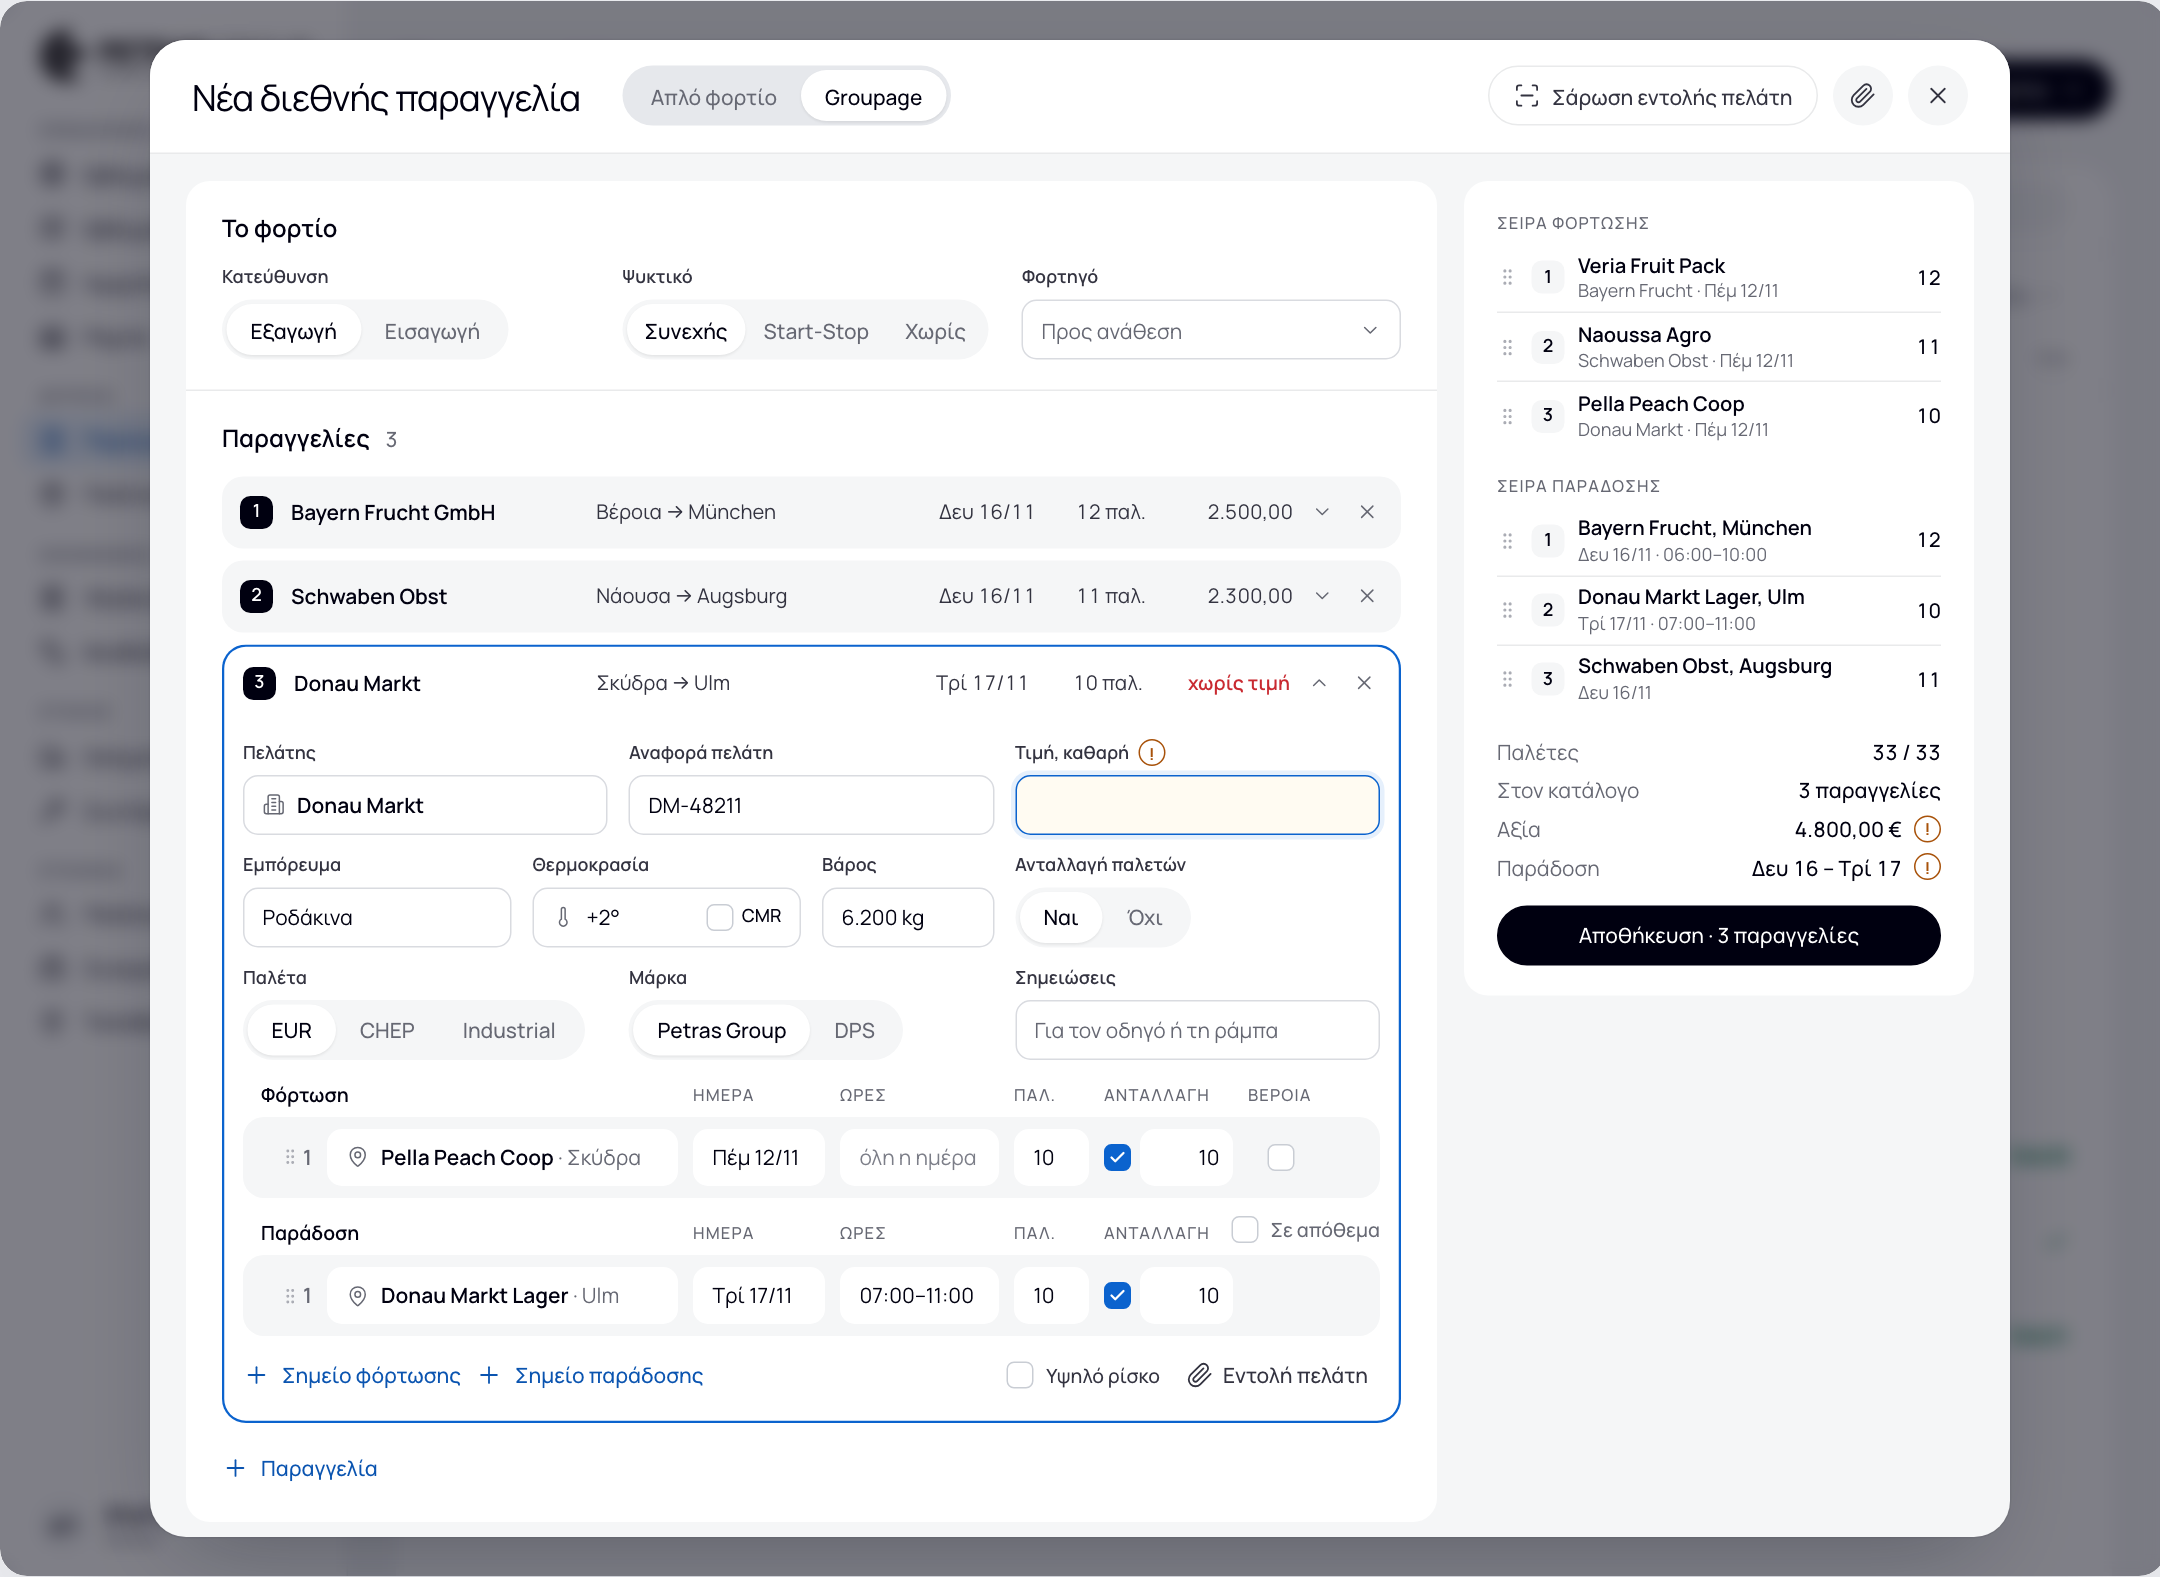
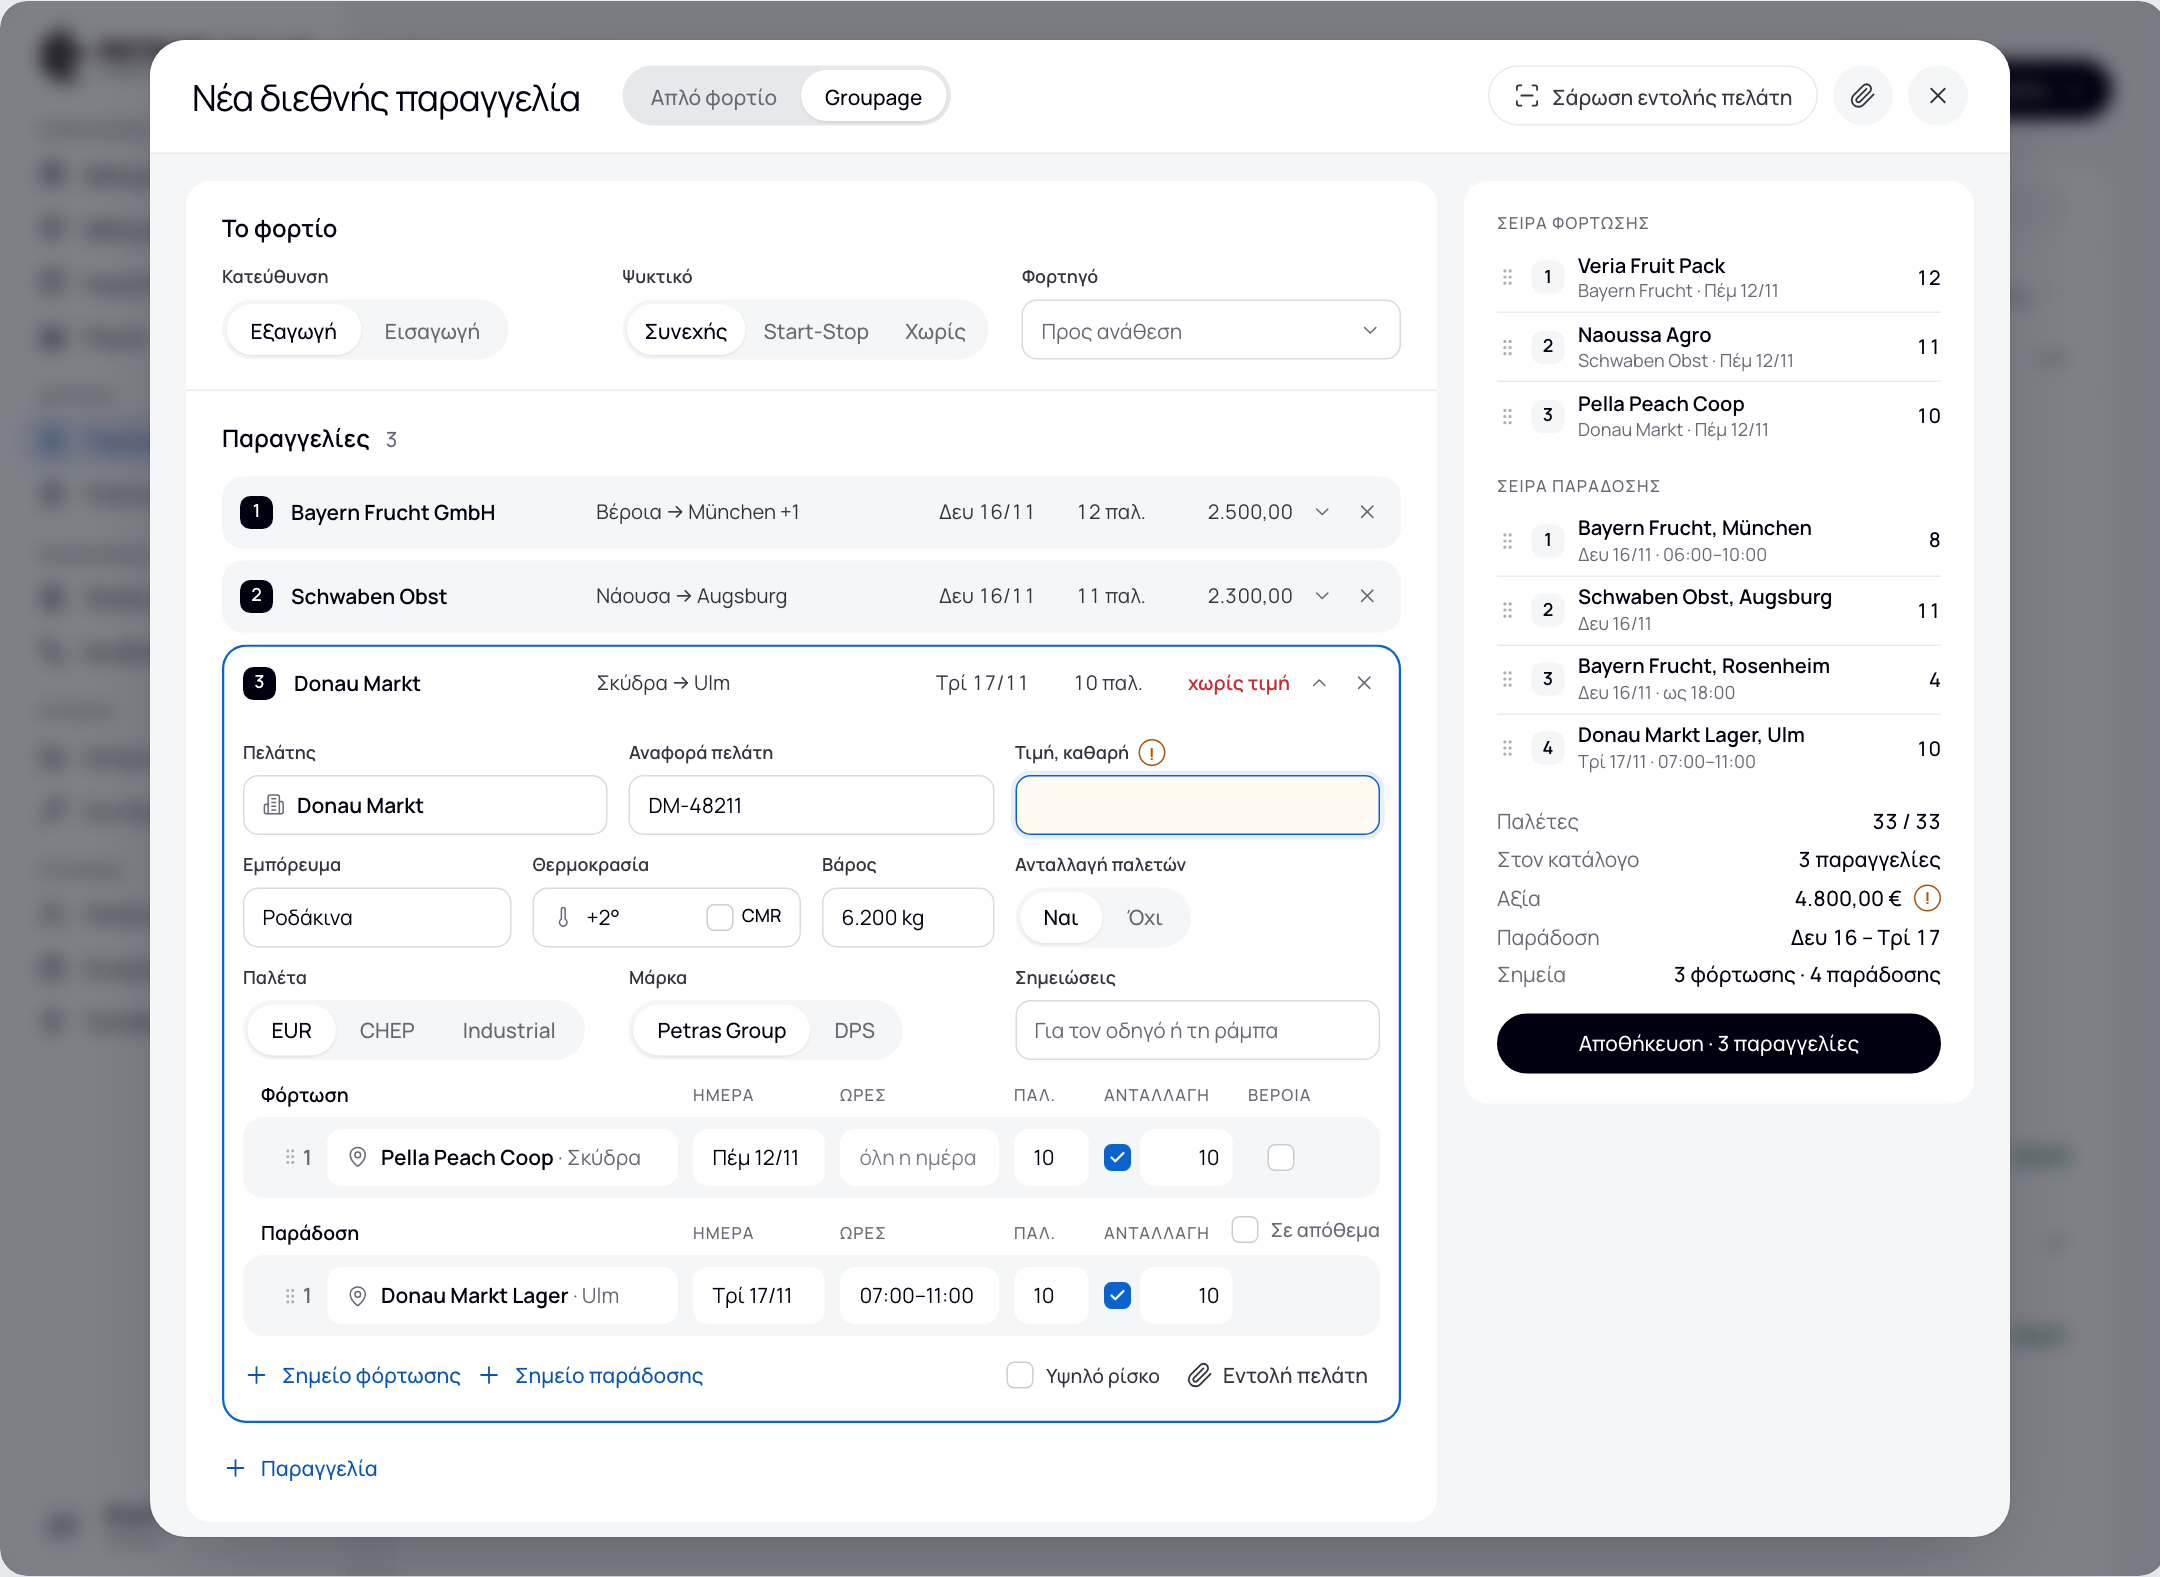
docs(redesign): groupage order is per point (owner 15/11) — an order with two deliveries gives two lines in the delivery order

Changed region(s): [[0.6824, 0.3729, 0.8995, 0.6836]]

diff --git a/docs/design/redesign-2026-11/index.html b/docs/design/redesign-2026-11/index.html
@@ -985,7 +985,7 @@ $('f6').innerHTML=ordersHTML(0)+`<div class="veil"></div><div class="sheet">
   <div class="fsec"><h3>Το φορτίο</h3>
    <div class="row g12"><div style="grid-column:span 4"><label class="fld"><span>Κατεύθυνση</span><div class="seg"><b class="on">Εξαγωγή</b><b>Εισαγωγή</b></div></label></div><label class="fld" style="grid-column:span 4"><span>Ψυκτικό</span><div class="seg tight"><b class="on">Συνεχής</b><b>Start-Stop</b><b>Χωρίς</b></div></label><div style="grid-column:span 4">${fld('Φορτηγό',`<span style="color:var(--help)">Προς ανάθεση</span><span class="sp"></span>${ic('chevron-down')}`)}</div></div></div>
   <div class="fsec"><h3>Παραγγελίες <span class="num" style="font-weight:500;color:var(--help);font-size:14px">3</span></h3>
-   ${ol(1,'Bayern Frucht GmbH','Βέροια → München','Δευ 16/11',12,'2.500,00')}
+   ${ol(1,'Bayern Frucht GmbH','Βέροια → München +1','Δευ 16/11',12,'2.500,00')}
    ${ol(2,'Schwaben Obst','Νάουσα → Augsburg','Δευ 16/11',11,'2.300,00')}
    <div class="oe">${ol(3,'Donau Markt','Σκύδρα → Ulm','Τρί 17/11',10,'<span class="np">χωρίς τιμή</span>',1)}
     <div class="row g12"><div style="grid-column:span 4">${fld('Πελάτης',`${ic('building-2')}<b style="font-weight:600">Donau Markt</b>`)}</div><div style="grid-column:span 4">${fld('Αναφορά πελάτη','DM-48211')}</div><div style="grid-column:span 4"><label class="fld"><span>Τιμή, καθαρή <i class="nb a" data-t="Λείπει. Αποθηκεύεται και χωρίς τιμή· θα φανεί στο «Χωρίς τιμή».">!</i></span><div class="inp miss focus"></div></label></div></div>
@@ -1001,8 +1001,8 @@ $('f6').innerHTML=ordersHTML(0)+`<div class="veil"></div><div class="sheet">
  <div class="card sum" style="border-radius:16px;gap:0"><p class="lbl">Σειρά φόρτωσης</p>
   <div class="sql">${sq(1,'Veria Fruit Pack','Bayern Frucht · Πέμ 12/11',12)}${sq(2,'Naoussa Agro','Schwaben Obst · Πέμ 12/11',11)}${sq(3,'Pella Peach Coop','Donau Markt · Πέμ 12/11',10)}</div>
   <p class="lbl">Σειρά παράδοσης</p>
-  <div class="sql">${sq(1,'Bayern Frucht, München','Δευ 16/11 · 06:00–10:00',12)}${sq(2,'Donau Markt Lager, Ulm','Τρί 17/11 · 07:00–11:00',10)}${sq(3,'Schwaben Obst, Augsburg','Δευ 16/11',11)}</div>
-  <dl class="chkv" style="margin-bottom:16px"><dt>Παλέτες</dt><dd class="num">33 / 33</dd><dt>Στον κατάλογο</dt><dd class="num">3 παραγγελίες</dd><dt>Αξία</dt><dd class="num">4.800,00 € <i class="nb a" data-t="Μία παραγγελία χωρίς τιμή δεν μετρά.">!</i></dd><dt>Παράδοση</dt><dd class="num">Δευ 16 – Τρί 17 <i class="nb a" data-t="Η σειρά παράδοσης βάζει το Ulm της Τρίτης πριν από το Augsburg της Δευτέρας.">!</i></dd></dl>
+  <div class="sql">${sq(1,'Bayern Frucht, München','Δευ 16/11 · 06:00–10:00',8)}${sq(2,'Schwaben Obst, Augsburg','Δευ 16/11',11)}${sq(3,'Bayern Frucht, Rosenheim','Δευ 16/11 · ως 18:00',4)}${sq(4,'Donau Markt Lager, Ulm','Τρί 17/11 · 07:00–11:00',10)}</div>
+  <dl class="chkv" style="margin-bottom:16px"><dt>Παλέτες</dt><dd class="num">33 / 33</dd><dt>Στον κατάλογο</dt><dd class="num">3 παραγγελίες</dd><dt>Αξία</dt><dd class="num">4.800,00 € <i class="nb a" data-t="Μία παραγγελία χωρίς τιμή δεν μετρά.">!</i></dd><dt>Παράδοση</dt><dd class="num">Δευ 16 – Τρί 17</dd><dt>Σημεία</dt><dd class="num">3 φόρτωσης · 4 παράδοσης</dd></dl>
   <div><button class="pill b" style="width:100%;height:40px;justify-content:center">Αποθήκευση · 3 παραγγελίες</button></div>
  </div></div></div>`;
 // the two order lists can be dragged; numbers follow

diff --git a/docs/design/redesign-2026-11/groupage-from-the-form.md b/docs/design/redesign-2026-11/groupage-from-the-form.md
@@ -57,7 +57,7 @@
 ## Τι θέλει απόφαση πριν χτιστεί
 
 1. **Πού αποθηκεύεται η σειρά φόρτωσης.** Σήμερα υπάρχει θέση μόνο για τη σειρά παράδοσης. Η σειρά φόρτωσης θέλει νέα θέση στη βάση, άρα αλλαγή βάσης με έγκριση του owner.
-2. **Σειρά ανά σημείο ή ανά παραγγελία.** Μια παραγγελία μπορεί να έχει δύο σημεία φόρτωσης ή δύο παραδόσεις. Το σχέδιο σέρνει **σημεία**, όχι παραγγελίες· η σημερινή αποθήκευση κρατά σειρά **παραγγελιών**.
+2. ~~Σειρά ανά σημείο ή ανά παραγγελία.~~ **Αποφασίστηκε (owner 15/11): «Ανά σημείο».** Κάθε σημείο φόρτωσης και κάθε σημείο παράδοσης έχει δική του θέση στη σειρά· δύο παραδόσεις της ίδιας παραγγελίας μπορούν να έχουν άλλο σημείο ανάμεσά τους. Συνέπεια για το 1: η βάση πρέπει να κρατά σειρά **σημείων** και για τη φόρτωση και για την παράδοση· η σημερινή θέση, που κρατά σειρά παραγγελιών, δεν αρκεί.
 3. **Τι γίνεται με τα σημερινά παράθυρα του πίνακα** («Groupage εξαγωγών…», «Groupage εισαγωγών…», κάρτα σειράς). Η πρόταση: φεύγουν, και από τον πίνακα μένει μόνο το άνοιγμα του φορτίου στη φόρμα.
 4. **Παραγγελία που υπάρχει ήδη μόνη της και πρέπει να μπει σε φορτίο** (π.χ. ήρθε χωριστά, ή διόρθωση εκ των υστέρων). Χρειάζεται δρόμος: «Πρόσθεσε υπάρχουσα παραγγελία» μέσα στη φόρμα.
 5. **Εισαγωγές.** Το ίδιο σχήμα με «Εισαγωγή» στην κατεύθυνση· δεν σχεδιάστηκε χωριστά.
